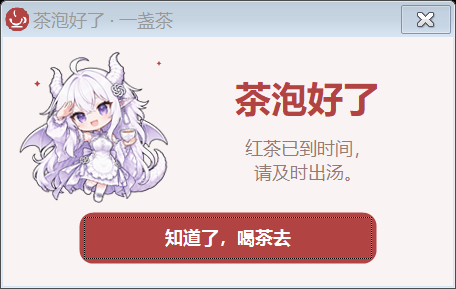
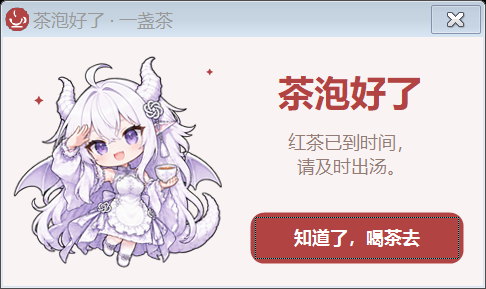
Add per-tea round duration increments and enlarge mascots

diff --git a/CompactUi.cs b/CompactUi.cs
@@ -111,7 +111,7 @@ namespace TeaTimer
         {
             Graphics g = e.Graphics; g.SmoothingMode = SmoothingMode.AntiAlias;
             float scale = g.DpiY / 96f;
-            float size = Math.Min(Width, Height) - 8 * scale;
+            float size = Math.Min(Width, Height) - 4 * scale;
             artwork.Draw(g, new RectangleF((Width - size) / 2, (Height - size) / 2, size, size),
                 scale, Kind, TimerState.Finished, accent, animation.Enabled, Native.GetTickCount64() / 1000.0);
         }
@@ -128,6 +128,8 @@ namespace TeaTimer
         public Tea Tea;
         public bool ShowMascot = true, AnimateMascot = true;
         public int MascotKind;
+        public int BrewRound = 1;
+        public bool ShowRound;
         public Func<long> Clock;
         private readonly MascotArtwork artwork = new MascotArtwork();
         public ClockPanel()
@@ -143,22 +145,24 @@ namespace TeaTimer
             using (Brush brush = new SolidBrush(Color.White)) g.FillPath(brush, path);
             int seconds = Countdown.RemainingSeconds;
             string time = (seconds / 60).ToString("00") + ":" + (seconds % 60).ToString("00");
-            float mascotSize = Math.Min(Height * .84f, 136 * scale);
-            float textWidth = ShowMascot ? Width - mascotSize - 14 * scale : Width;
-            float fontSize = Math.Min(78 * scale, Math.Min(textWidth * .26f, Height * .40f));
+            float mascotSize = Math.Min(Height - 12 * scale, Math.Min(Width * .55f, Width - 112 * scale));
+            float textWidth = ShowMascot ? Width - mascotSize - 8 * scale : Width;
+            float fontSize = Math.Min(78 * scale, Math.Min(textWidth * .26f, Height * (ShowRound ? .34f : .40f)));
+            if (ShowRound) Style.Text(g, "第 " + BrewRound + " 轮", 8 * scale, FontStyle.Regular, Tea.Accent,
+                new RectangleF(0, 3 * scale, textWidth, 18 * scale), StringAlignment.Center);
             using (Font font = new Font("Segoe UI", fontSize, FontStyle.Regular, GraphicsUnit.Pixel))
             using (Brush brush = new SolidBrush(Style.Blend(Tea.Accent, Color.Black, .55f))) using (StringFormat sf = new StringFormat())
             {
                 sf.Alignment = StringAlignment.Center; sf.LineAlignment = StringAlignment.Center;
-                g.DrawString(time, font, brush, new RectangleF(0, Height * .04f, textWidth, Height * .62f), sf);
+                g.DrawString(time, font, brush, new RectangleF(0, Height * (ShowRound ? .12f : .04f), textWidth, Height * (ShowRound ? .50f : .62f)), sf);
             }
-            string state = Countdown.State == TimerState.Running ? "正在泡茶" : Countdown.State == TimerState.Paused ? "已暂停" : Countdown.State == TimerState.Finished ? "茶泡好了，请及时出汤" : "点击开始泡茶";
+            string state = Countdown.State == TimerState.Running ? "正在泡茶" : Countdown.State == TimerState.Paused ? "已暂停" : Countdown.State == TimerState.Finished ? "茶泡好了，请出汤" : "点击开始泡茶";
             Style.Text(g, state, 9 * scale, FontStyle.Regular, Tea.Accent,
                 new RectangleF(0, Height * .66f, textWidth, 22 * scale), StringAlignment.Center);
-            if (ShowMascot) artwork.Draw(g, new RectangleF(Width - mascotSize - 8 * scale, (Height - mascotSize) / 2 - 3 * scale, mascotSize, mascotSize),
+            if (ShowMascot) artwork.Draw(g, new RectangleF(Width - mascotSize - 4 * scale, (Height - mascotSize) / 2 - 2 * scale, mascotSize, mascotSize),
                 scale, MascotKind, Countdown.State, Tea.Accent, AnimateMascot, Clock == null ? 0 : Clock() / 1000.0);
             float progress = Math.Max(0, Math.Min(1, 1f - (float)Countdown.RemainingMilliseconds / (Countdown.DurationSeconds * 1000f)));
-            RectangleF track = new RectangleF(14 * scale, Height - 12 * scale, Width - 28 * scale, 3 * scale);
+            RectangleF track = new RectangleF(14 * scale, Height - 12 * scale, textWidth - 28 * scale, 3 * scale);
             using (Brush brush = new SolidBrush(ColorTranslator.FromHtml("#E9EEE5"))) g.FillRectangle(brush, track);
             if (progress > 0) using (Brush brush = new SolidBrush(Tea.Accent))
                 g.FillRectangle(brush, track.X, track.Y, track.Width * progress, track.Height);
@@ -176,10 +180,12 @@ namespace TeaTimer
         private readonly System.Windows.Forms.Timer timer;
         private AlertForm alert;
         private bool exiting;
+        private int brewRound = 1;
         private readonly float uiScale;
         internal int CompletionCount { get; private set; }
         internal bool SilentTest, TestNotifications;
         internal Countdown Model { get { return countdown; } }
+        internal int BrewRound { get { return brewRound; } }
         internal AlertForm CurrentAlert { get { return alert; } }
         internal bool HasVisibleAlert { get { return alert != null && alert.Visible && alert.TopMost; } }
         internal TeaForm(Preferences prefs, Func<long> now, bool silentTest = false)
@@ -236,7 +242,7 @@ namespace TeaTimer
         private void LayoutControls()
         {
             if (clockPanel == null || start == null) return;
-            int inset = Px(12), gap = Px(8), configWidth = Px(58), rowHeight = Px(32), buttonHeight = Px(40);
+            int inset = Px(10), gap = Px(6), configWidth = Px(58), rowHeight = Px(30), buttonHeight = Px(36);
             teaPicker.SetBounds(inset, inset + Px(2), Math.Max(1, ClientSize.Width - inset * 2 - configWidth - gap), rowHeight);
             configure.SetBounds(ClientSize.Width - inset - configWidth, inset, configWidth, rowHeight);
             int bottom = ClientSize.Height - inset - buttonHeight, clockTop = inset + rowHeight + gap;
@@ -260,7 +266,7 @@ namespace TeaTimer
             if (IsBusy || index < 0 || index >= Tea.All.Length) return;
             DismissAlert(); preferences.Selected = index;
             teaPicker.Text = Tea.All[index].Name;
-            clockPanel.Tea = Tea.All[index]; countdown.Reset(preferences.Times[index]); UpdateState(); SavePreferences();
+            brewRound = 1; clockPanel.Tea = Tea.All[index]; countdown.Reset(RoundDuration()); UpdateState(); SavePreferences();
             ApplyTheme();
         }
         private void ApplyTheme()
@@ -275,7 +281,7 @@ namespace TeaTimer
         {
             if (duration < 1 || duration > 5999) throw new ArgumentOutOfRangeException("duration");
             if (IsBusy) return;
-            DismissAlert(); preferences.Times[preferences.Selected] = duration; countdown.Reset(duration); UpdateState(); SavePreferences();
+            DismissAlert(); brewRound = 1; preferences.Times[preferences.Selected] = duration; countdown.Reset(duration); UpdateState(); SavePreferences();
         }
         private void ShowConfiguration()
         {
@@ -285,6 +291,7 @@ namespace TeaTimer
         internal void ApplySettings(Preferences result)
         {
             preferences.Times = (int[])result.Times.Clone(); preferences.Sound = result.Sound; preferences.OnTop = result.OnTop;
+            preferences.RoundIncrements = (int[])result.RoundIncrements.Clone();
             preferences.ShowMascot = result.ShowMascot; preferences.AnimateMascot = result.AnimateMascot;
             preferences.MascotKind = result.MascotKind;
             clockPanel.ShowMascot = preferences.ShowMascot; clockPanel.AnimateMascot = preferences.AnimateMascot;
@@ -292,7 +299,7 @@ namespace TeaTimer
             TopMost = preferences.OnTop;
             // A running or paused brew keeps its original deadline. New durations
             // apply to the next brew, including repeating after completion.
-            if (!IsBusy) { DismissAlert(); countdown.Reset(preferences.Times[preferences.Selected]); }
+            if (!IsBusy) { DismissAlert(); if (countdown.State == TimerState.Ready) countdown.Reset(RoundDuration()); }
             UpdateState(); SavePreferences();
         }
         internal void ToggleTimer()
@@ -301,13 +308,16 @@ namespace TeaTimer
             else
             {
                 DismissAlert();
-                if (countdown.State != TimerState.Paused) countdown.Reset(preferences.Times[preferences.Selected]);
+                if (countdown.State == TimerState.Finished && brewRound < int.MaxValue) brewRound++;
+                if (countdown.State != TimerState.Paused) countdown.Reset(RoundDuration());
                 countdown.Start();
             }
             UpdateState();
         }
         internal void ResetTimer()
-        { DismissAlert(); countdown.Reset(preferences.Times[preferences.Selected]); UpdateState(); }
+        { DismissAlert(); brewRound = 1; countdown.Reset(RoundDuration()); UpdateState(); }
+        private int RoundDuration()
+        { return (int)Math.Min(5999L, preferences.Times[preferences.Selected] + (long)(brewRound - 1) * preferences.RoundIncrements[preferences.Selected]); }
         internal void Pump()
         {
             if (countdown.Tick()) Completed(); clockPanel.Invalidate();
@@ -316,6 +326,7 @@ namespace TeaTimer
         private void UpdateState()
         {
             teaPicker.Enabled = !IsBusy;
+            clockPanel.BrewRound = brewRound; clockPanel.ShowRound = preferences.RoundIncrements[preferences.Selected] > 0;
             start.Text = countdown.State == TimerState.Running ? "暂停" : countdown.State == TimerState.Paused ? "继续" : countdown.State == TimerState.Finished ? "再泡一杯" : "开始泡茶";
             tray.Text = "一盏茶 · " + (countdown.State == TimerState.Paused ? "已暂停" : "泡茶计时"); clockPanel.Invalidate();
         }
@@ -340,6 +351,7 @@ namespace TeaTimer
     {
         private readonly Preferences original;
         private readonly NumericUpDown[] minutes = new NumericUpDown[6], seconds = new NumericUpDown[6];
+        private readonly NumericUpDown[] increments = new NumericUpDown[6];
         private readonly CheckBox sound, onTop, showMascot, animateMascot;
         private readonly TeaPickerButton mascotPicker;
         private readonly ContextMenuStrip mascotMenu;
@@ -352,19 +364,21 @@ namespace TeaTimer
             Text = "配置 · 一盏茶"; BackColor = Style.Background; ForeColor = Style.Ink; Font = Style.Font(9, FontStyle.Regular);
             FormBorderStyle = FormBorderStyle.FixedDialog; MaximizeBox = false; MinimizeBox = false;
             ShowInTaskbar = false; StartPosition = FormStartPosition.CenterParent; TopMost = preferences.OnTop;
-            AutoScaleMode = AutoScaleMode.None; ClientSize = new Size(370, 508);
+            AutoScaleMode = AutoScaleMode.None; ClientSize = new Size(454, 508);
             AddLabel("泡茶配置", 20, 14, 330, 36, 16, FontStyle.Bold);
             AddLabel("每种茶的时间分别保存，下次打开仍保留。", 20, 50, 330, 26, 8.5f, FontStyle.Regular);
             AddLabel("茶类", 22, 82, 90, 25, 9, FontStyle.Bold);
             AddLabel("分钟", 126, 82, 70, 25, 9, FontStyle.Bold);
             AddLabel("秒钟", 210, 82, 70, 25, 9, FontStyle.Bold);
+            AddLabel("每轮 +秒", 294, 82, 80, 25, 9, FontStyle.Bold);
             for (int i = 0; i < Tea.All.Length; i++)
             {
                 int index = i, y = 112 + i * 30;
                 AddLabel(Tea.All[i].Name, 22, y, 92, 27, 9, FontStyle.Regular);
                 minutes[i] = MakeNumber(126, y, 99, preferences.Times[i] / 60, Tea.All[i].Name + "分钟");
                 seconds[i] = MakeNumber(210, y, 59, preferences.Times[i] % 60, Tea.All[i].Name + "秒钟");
-                ActionButton recommended = new ActionButton("推荐", false); recommended.SetBounds(294, y, 56, 27);
+                increments[i] = MakeNumber(294, y, 5999, preferences.RoundIncrements[i], Tea.All[i].Name + "每轮增加秒数");
+                ActionButton recommended = new ActionButton("推荐", false); recommended.SetBounds(378, y, 56, 27);
                 recommended.Font = Style.Font(8, FontStyle.Regular);
                 recommended.Click += delegate { SetTime(index, Tea.All[index].Seconds); }; Controls.Add(recommended);
             }
@@ -376,7 +390,7 @@ namespace TeaTimer
             showMascot.CheckedChanged += delegate { animateMascot.Enabled = showMascot.Checked; };
             Controls.Add(showMascot); Controls.Add(animateMascot);
             AddLabel("形象", 22, 367, 48, 25, 9, FontStyle.Bold);
-            mascotPicker = new TeaPickerButton { Accent = Style.Green, AccessibleName = "选择泡茶娘形象" }; mascotPicker.SetBounds(82, 362, 268, 32); Controls.Add(mascotPicker);
+            mascotPicker = new TeaPickerButton { Accent = Style.Green, AccessibleName = "选择泡茶娘形象" }; mascotPicker.SetBounds(82, 362, 352, 32); Controls.Add(mascotPicker);
             mascotMenu = new ContextMenuStrip();
             for (int i = 0; i < MascotCatalog.Names.Length; i++)
             {
@@ -384,11 +398,11 @@ namespace TeaTimer
             }
             mascotPicker.Click += delegate { mascotMenu.Show(mascotPicker, new Point(0, mascotPicker.Height)); };
             ChooseMascot(preferences.MascotKind); Disposed += delegate { mascotMenu.Dispose(); };
-            AddLabel("杯泡参考，盖碗 / 功夫泡请自定义短时间。", 22, 398, 330, 25, 8, FontStyle.Regular);
-            status = AddLabel(busy ? "正在计时：时间修改在下一次泡茶生效。" : "时间范围：1 秒至 99 分 59 秒。", 22, 422, 330, 27, 8, FontStyle.Regular);
-            ActionButton save = new ActionButton("保存", true); save.SetBounds(20, 462, 214, 34);
+            AddLabel("每轮 +秒：0 不增加，重置 / 换茶回第一轮。", 22, 398, 414, 25, 8, FontStyle.Regular);
+            status = AddLabel(busy ? "正在计时：时间修改在下一次泡茶生效。" : "每轮时间上限：99 分 59 秒。", 22, 422, 414, 27, 8, FontStyle.Regular);
+            ActionButton save = new ActionButton("保存", true); save.SetBounds(20, 462, 298, 34);
             save.Click += delegate { if (SaveChanges()) { DialogResult = DialogResult.OK; Close(); } }; Controls.Add(save);
-            ActionButton cancel = new ActionButton("取消", false); cancel.SetBounds(246, 462, 104, 34); cancel.DialogResult = DialogResult.Cancel;
+            ActionButton cancel = new ActionButton("取消", false); cancel.SetBounds(330, 462, 104, 34); cancel.DialogResult = DialogResult.Cancel;
             cancel.Click += delegate { Close(); }; Controls.Add(cancel); AcceptButton = save; CancelButton = cancel;
             float scale; using (Graphics graphics = CreateGraphics()) scale = graphics.DpiY / 96f;
             foreach (Control control in Controls)
@@ -397,7 +411,7 @@ namespace TeaTimer
                 if (control.AutoSize) control.Location = new Point((int)Math.Round(bounds.X * scale), (int)Math.Round(bounds.Y * scale));
                 else control.SetBounds((int)Math.Round(bounds.X * scale), (int)Math.Round(bounds.Y * scale), (int)Math.Round(bounds.Width * scale), (int)Math.Round(bounds.Height * scale));
             }
-            ClientSize = new Size((int)Math.Round(370 * scale), (int)Math.Round(508 * scale));
+            ClientSize = new Size((int)Math.Round(454 * scale), (int)Math.Round(508 * scale));
             ResumeLayout(false);
         }
         private Label AddLabel(string text, int x, int y, int width, int height, float size, FontStyle fontStyle)
@@ -411,6 +425,7 @@ namespace TeaTimer
             input.SetBounds(x, y, 68, 27); Controls.Add(input); return input;
         }
         internal void SetTime(int index, int duration) { minutes[index].Value = duration / 60; seconds[index].Value = duration % 60; }
+        internal void SetIncrement(int index, int increment) { increments[index].Value = increment; }
         internal void ChooseMascot(int kind)
         {
             selectedMascot = Math.Max(0, Math.Min(MascotCatalog.Names.Length - 1, kind));
@@ -420,12 +435,14 @@ namespace TeaTimer
         internal bool SaveChanges()
         {
             int[] times = new int[Tea.All.Length];
+            int[] increases = new int[Tea.All.Length];
             for (int i = 0; i < times.Length; i++)
             {
                 times[i] = (int)minutes[i].Value * 60 + (int)seconds[i].Value;
+                increases[i] = (int)increments[i].Value;
                 if (times[i] == 0) { status.Text = Tea.All[i].Name + "的时间需要大于 0 秒。"; status.ForeColor = Color.Firebrick; minutes[i].Focus(); return false; }
             }
-            Result = new Preferences { Selected = original.Selected, Times = times, Sound = sound.Checked, OnTop = onTop.Checked, ShowMascot = showMascot.Checked, AnimateMascot = animateMascot.Checked, MascotKind = selectedMascot, WindowWidth = original.WindowWidth, WindowHeight = original.WindowHeight };
+            Result = new Preferences { Selected = original.Selected, Times = times, RoundIncrements = increases, Sound = sound.Checked, OnTop = onTop.Checked, ShowMascot = showMascot.Checked, AnimateMascot = animateMascot.Checked, MascotKind = selectedMascot, WindowWidth = original.WindowWidth, WindowHeight = original.WindowHeight };
             return true;
         }
         internal void CapturePreview(string path) { Style.CaptureForm(this, path); }

diff --git a/TeaTimer.cs b/TeaTimer.cs
@@ -71,6 +71,7 @@ namespace TeaTimer
     {
         public int Selected;
         public int[] Times = new int[] { 120, 180, 150, 120, 240, 240 };
+        public int[] RoundIncrements = new int[6];
         public bool Sound = true;
         public bool OnTop = false;
         public bool ShowMascot = true;
@@ -88,7 +89,9 @@ namespace TeaTimer
                     Preferences p = (Preferences)new XmlSerializer(typeof(Preferences)).Deserialize(stream);
                     if (p.Selected < 0 || p.Selected >= Tea.All.Length) p.Selected = 0;
                     if (p.Times == null || p.Times.Length != Tea.All.Length) p.Times = new Preferences().Times;
+                    if (p.RoundIncrements == null || p.RoundIncrements.Length != Tea.All.Length) p.RoundIncrements = new int[Tea.All.Length];
                     for (int i = 0; i < p.Times.Length; i++) if (p.Times[i] < 1 || p.Times[i] > 5999) p.Times[i] = Tea.All[i].Seconds;
+                    for (int i = 0; i < p.RoundIncrements.Length; i++) p.RoundIncrements[i] = Math.Max(0, Math.Min(5999, p.RoundIncrements[i]));
                     p.WindowWidth = Math.Max(260, Math.Min(1280, p.WindowWidth));
                     p.WindowHeight = Math.Max(208, Math.Min(960, p.WindowHeight));
                     if (p.MascotKind < 0 || p.MascotKind >= MascotCatalog.Names.Length) p.MascotKind = 0;
@@ -200,15 +203,15 @@ namespace TeaTimer
             Text = "茶泡好了 · 一盏茶"; Icon = icon; TopMost = true; ShowInTaskbar = true;
             AutoScaleMode = AutoScaleMode.None;
             float scale; using (Graphics g = CreateGraphics()) scale = g.DpiY / 96f;
-            ClientSize = new Size((int)Math.Round((showMascot ? 300 : 280) * scale), (int)Math.Round(166 * scale)); BackColor = Style.Blend(accent, Color.White, .06f); StartPosition = FormStartPosition.CenterScreen;
+            ClientSize = new Size((int)Math.Round((showMascot ? 320 : 280) * scale), (int)Math.Round(166 * scale)); BackColor = Style.Blend(accent, Color.White, .06f); StartPosition = FormStartPosition.CenterScreen;
             FormBorderStyle = FormBorderStyle.FixedDialog; MaximizeBox = false; MinimizeBox = false;
-            Label title = new Label { Text = "茶泡好了", Font = Style.Font(18, FontStyle.Bold), ForeColor = accent, TextAlign = ContentAlignment.MiddleCenter, Bounds = showMascot ? new Rectangle(120, 20, 168, 40) : new Rectangle(20, 16, 240, 40) };
-            Label body = new Label { Text = tea + (showMascot ? "已到时间，\n请及时出汤。" : "已到时间，请及时出汤。"), Font = Style.Font(9, FontStyle.Regular), ForeColor = Style.Muted, TextAlign = ContentAlignment.MiddleCenter, Bounds = showMascot ? new Rectangle(120, 62, 168, 40) : new Rectangle(14, 60, 252, 32) };
-            ActionButton ok = new ActionButton("知道了，喝茶去", true) { Accent = accent, Bounds = new Rectangle(showMascot ? 50 : 40, 116, 200, 36), DialogResult = DialogResult.OK };
+            Label title = new Label { Text = "茶泡好了", Font = Style.Font(18, FontStyle.Bold), ForeColor = accent, TextAlign = ContentAlignment.MiddleCenter, Bounds = showMascot ? new Rectangle(154, 16, 158, 40) : new Rectangle(20, 16, 240, 40) };
+            Label body = new Label { Text = tea + (showMascot ? "已到时间，\n请及时出汤。" : "已到时间，请及时出汤。"), Font = Style.Font(9, FontStyle.Regular), ForeColor = Style.Muted, TextAlign = ContentAlignment.MiddleCenter, Bounds = showMascot ? new Rectangle(154, 58, 158, 40) : new Rectangle(14, 60, 252, 32) };
+            ActionButton ok = new ActionButton("知道了，喝茶去", true) { Accent = accent, Bounds = showMascot ? new Rectangle(164, 116, 144, 36) : new Rectangle(40, 116, 200, 36), DialogResult = DialogResult.OK };
             ok.Click += delegate { Close(); }; Controls.Add(title); Controls.Add(body); Controls.Add(ok); AcceptButton = ok; CancelButton = ok;
             if (showMascot)
             {
-                Mascot = new ReminderMascot(mascotKind, accent, animateMascot) { Bounds = new Rectangle(6, 2, 112, 112) };
+                Mascot = new ReminderMascot(mascotKind, accent, animateMascot) { Bounds = new Rectangle(4, 4, 150, 154) };
                 Controls.Add(Mascot);
             }
             foreach (Control child in Controls)
@@ -277,9 +280,12 @@ namespace TeaTimer
                         settings.Show(); Application.DoEvents(); settings.CapturePreview(Path.Combine(directory, "preview-settings.png"));
                         settings.SetTime(0, 0); Assert(!settings.SaveChanges(), "settings reject zero");
                         settings.SetTime(0, 67); settings.SetTime(1, 89);
+                        settings.SetIncrement(0, 15); settings.SetIncrement(1, 10);
                         settings.ChooseMascot(1);
                         Assert(settings.SaveChanges() && prefs.Times[0] == 120, "configuration edits are isolated until save");
+                        Assert(prefs.RoundIncrements[0] == 0, "increment edits are isolated until save");
                         form.ApplySettings(settings.Result); Assert(form.Model.DurationSeconds == 67 && prefs.Times[1] == 89, "apply per-tea times");
+                        Assert(prefs.RoundIncrements[0] == 15 && prefs.RoundIncrements[1] == 10, "apply per-tea increments");
                         Assert(prefs.MascotKind == 1, "choose GPT mascot");
                         form.CapturePreview(Path.Combine(directory, "preview-gpt.png"));
                         settings.Close();
@@ -325,10 +331,56 @@ namespace TeaTimer
                     }
                     form.ShutdownTest();
                 }
+                Preferences roundPrefs = new Preferences { MascotKind = 2 };
+                roundPrefs.Times[0] = 30; roundPrefs.RoundIncrements[0] = 10;
+                roundPrefs.Times[1] = 2; roundPrefs.RoundIncrements[1] = 5;
+                using (TeaForm rounds = new TeaForm(roundPrefs, delegate { return now; }, true))
+                {
+                    rounds.Show(); Application.DoEvents();
+                    Assert(rounds.BrewRound == 1 && rounds.Model.DurationSeconds == 30, "first round uses base duration");
+                    rounds.ToggleTimer(); now += 30000; rounds.Pump(); rounds.ToggleTimer();
+                    Assert(rounds.BrewRound == 2 && rounds.Model.DurationSeconds == 40, "second round adds increment");
+                    now += 5000; rounds.ToggleTimer(); long held = rounds.Model.RemainingMilliseconds;
+                    now += 100000; rounds.ToggleTimer();
+                    Assert(rounds.BrewRound == 2 && rounds.Model.RemainingMilliseconds == held, "pause and resume do not add a round");
+                    now += held; rounds.Pump(); rounds.ToggleTimer();
+                    Assert(rounds.BrewRound == 3 && rounds.Model.DurationSeconds == 50, "third round accumulates increment");
+                    rounds.CapturePreview(Path.Combine(directory, "preview-round-three.png"));
+                    rounds.ResetTimer(); Assert(rounds.BrewRound == 1 && rounds.Model.DurationSeconds == 30, "reset restores first round");
+                    rounds.SelectTea(1); Assert(rounds.BrewRound == 1 && rounds.Model.DurationSeconds == 2, "switch tea restores its base duration");
+                    rounds.ToggleTimer(); now += 2000; rounds.Pump(); rounds.ToggleTimer();
+                    Assert(rounds.BrewRound == 2 && rounds.Model.DurationSeconds == 7, "each tea uses its own increment"); rounds.ResetTimer();
+                    rounds.ToggleTimer();
+                    Preferences updated = new Preferences(); updated.Times = (int[])roundPrefs.Times.Clone(); updated.RoundIncrements = (int[])roundPrefs.RoundIncrements.Clone();
+                    updated.Times[1] = 3; updated.RoundIncrements[1] = 7; rounds.ApplySettings(updated);
+                    Assert(rounds.BrewRound == 1 && rounds.Model.DurationSeconds == 2 && rounds.Model.RemainingSeconds == 2, "changing increments preserves active round deadline");
+                    now += 2000; rounds.Pump(); updated.RoundIncrements[1] = 8; rounds.ApplySettings(updated);
+                    Assert(rounds.Model.State == TimerState.Finished && rounds.BrewRound == 1, "settings after completion preserve repeat sequence");
+                    rounds.ToggleTimer(); Assert(rounds.BrewRound == 2 && rounds.Model.DurationSeconds == 11, "next round uses updated base and increment");
+                    rounds.ResetTimer(); Assert(rounds.Model.DurationSeconds == 3 && rounds.BrewRound == 1, "reset uses new base duration");
+                    updated.Times[1] = 5990; updated.RoundIncrements[1] = 20; rounds.ApplySettings(updated);
+                    rounds.ToggleTimer(); now += 5990000; rounds.Pump(); rounds.ToggleTimer();
+                    Assert(rounds.Model.DurationSeconds == 5999 && rounds.BrewRound == 2, "increased round clamps at maximum duration");
+                    now += 5999000; rounds.Pump(); rounds.ToggleTimer();
+                    Assert(rounds.Model.DurationSeconds == 5999 && rounds.BrewRound == 3, "subsequent rounds stay at maximum duration");
+                    string roundPath = Path.Combine(directory, "round-settings.xml"); Assert(roundPrefs.Save(roundPath), "save per-tea increments");
+                    Preferences savedRounds = Preferences.Load(roundPath);
+                    Assert(savedRounds.RoundIncrements[0] == 10 && savedRounds.RoundIncrements[1] == 20, "per-tea increment persistence");
+                    rounds.ShutdownTest();
+                    using (TeaForm reopenedRounds = new TeaForm(savedRounds, delegate { return now; }, true))
+                    {
+                        Assert(reopenedRounds.BrewRound == 1 && reopenedRounds.Model.DurationSeconds == 5990, "reopening starts a new first round with saved increments");
+                        reopenedRounds.Show(); reopenedRounds.Size = reopenedRounds.MinimumSize;
+                        Preferences hiddenRounds = new Preferences { Times = (int[])savedRounds.Times.Clone(), RoundIncrements = (int[])savedRounds.RoundIncrements.Clone(), ShowMascot = false };
+                        reopenedRounds.ApplySettings(hiddenRounds); Application.DoEvents();
+                        reopenedRounds.CapturePreview(Path.Combine(directory, "preview-round-hidden-minimum.png")); reopenedRounds.ShutdownTest();
+                    }
+                }
                 string legacyPath = Path.Combine(directory, "legacy-settings.xml");
                 File.WriteAllText(legacyPath, "<Preferences><Selected>0</Selected><Times><int>60</int><int>180</int><int>150</int><int>120</int><int>240</int><int>240</int></Times><Sound>true</Sound><OnTop>true</OnTop></Preferences>");
                 Preferences legacy = Preferences.Load(legacyPath);
                 Assert(legacy.Times[0] == 60 && legacy.OnTop && legacy.WindowWidth == 280 && legacy.WindowHeight == 236, "old configuration migrates without losing times");
+                Assert(legacy.RoundIncrements.Length == 6 && legacy.RoundIncrements[0] == 0, "legacy settings default to no round increase");
                 for (int role = 0; role < MascotCatalog.Names.Length; role++)
                 {
                     using (AlertForm alert = new AlertForm("花草茶", SystemIcons.Information, Tea.All[5].Accent, role))
@@ -339,7 +391,7 @@ namespace TeaTimer
                         Style.CaptureForm(alert, Path.Combine(directory, "preview-alert-" + role + ".png")); alert.Close();
                     }
                 }
-                File.WriteAllText(report, "PASS: countdown, pause/resume, deadline boundary, single completion, repeat, sleep recovery, zero/max bounds, all 6 presets, UI transitions, alerts, selected reminder roles, static/hidden reminders, animation disposal, reminder DPI layouts, configuration validation, active-timer preservation, resize layouts, persistence/reopening, legacy migration and renders.");
+                File.WriteAllText(report, "PASS: countdown, pause/resume, deadline boundary, single completion, repeat, sleep recovery, zero/max bounds, all 6 presets, per-tea round increases, pause/round boundaries, reset/tea-change round reset, updated increments, maximum round duration, UI transitions, alerts, selected reminder roles, static/hidden reminders, animation disposal, reminder DPI layouts, configuration validation, active-timer preservation, resize layouts, persistence/reopening, legacy migration and renders.");
             }
             catch (Exception e) { File.WriteAllText(report, "FAIL: " + e); Environment.ExitCode = 1; }
         }

diff --git a/README.md b/README.md
@@ -8,6 +8,7 @@
 
 - 绿茶、红茶、乌龙、白茶、熟普洱和花草茶六种预设。
 - 每种茶的时间分别保存，支持 1 秒至 99 分 59 秒。
+- 每种茶可设置「每轮 +秒」，再泡一杯时累加时间，并显示当前轮次；0 表示不增加。
 - 紧凑主窗口，可拖动调整大小，并记住窗口尺寸。
 - 茶类对应不同配色；主界面只保留选茶、倒计时和基础按钮。
 - 独立配置页设置时间、提示音、置顶、角色和动画。
@@ -25,7 +26,12 @@
 点击茶类名称选择茶，倒入热水后点击「开始泡茶」。点击「配置」可修改每种茶的时间，点击「保存」生效。
 计时中修改配置不会打断当前计时，新的时间用于下一次泡茶。
 
+配置页的「每轮 +秒」分别记住每种茶的增量。例如首轮 30 秒、每轮增加 10 秒，第二轮为 40 秒、第三轮为 50 秒。点击「再泡一杯」进入下一轮，暂停 / 继续保留当前轮；重置、切换茶类或重新启动程序后从第一轮开始。每轮最多 99 分 59 秒，达到上限后不再增加。
+
+![第三轮泡茶](docs/round-three.png)
+
 提醒弹窗跟随配置页的角色选择、「显示泡茶娘」和「播放动画」设置。关闭动画会保留静态角色，隐藏角色后仍有文字提醒。
+主窗口和提醒弹窗使用更大的角色展示区域，主窗口调整大小时角色也会随之缩放。
 
 ![泡茶娘提醒](docs/reminder.png)
 
@@ -54,7 +60,7 @@ $test = Start-Process '.\一盏茶.exe' -ArgumentList '--self-test', 'verificati
 Get-Content '.\verification\test-results.txt'
 ```
 
-自检覆盖计时边界、暂停继续、单次提醒、睡眠恢复、六种预设、提醒角色切换、静态与隐藏提醒、弹窗关闭释放动画、DPI 布局、配置校验、运行中修改配置、窗口缩放、设置保存、重开恢复及旧配置迁移，并生成界面预览。
+自检覆盖计时边界、暂停继续、单次提醒、睡眠恢复、六种预设、每种茶的轮次累加与上限、重置与换茶恢复首轮、运行中修改增量、提醒角色切换、静态与隐藏提醒、弹窗关闭释放动画、DPI 布局、配置校验、窗口缩放、设置保存、重开恢复及旧配置迁移，并生成界面预览。
 
 ## 角色素材
 
